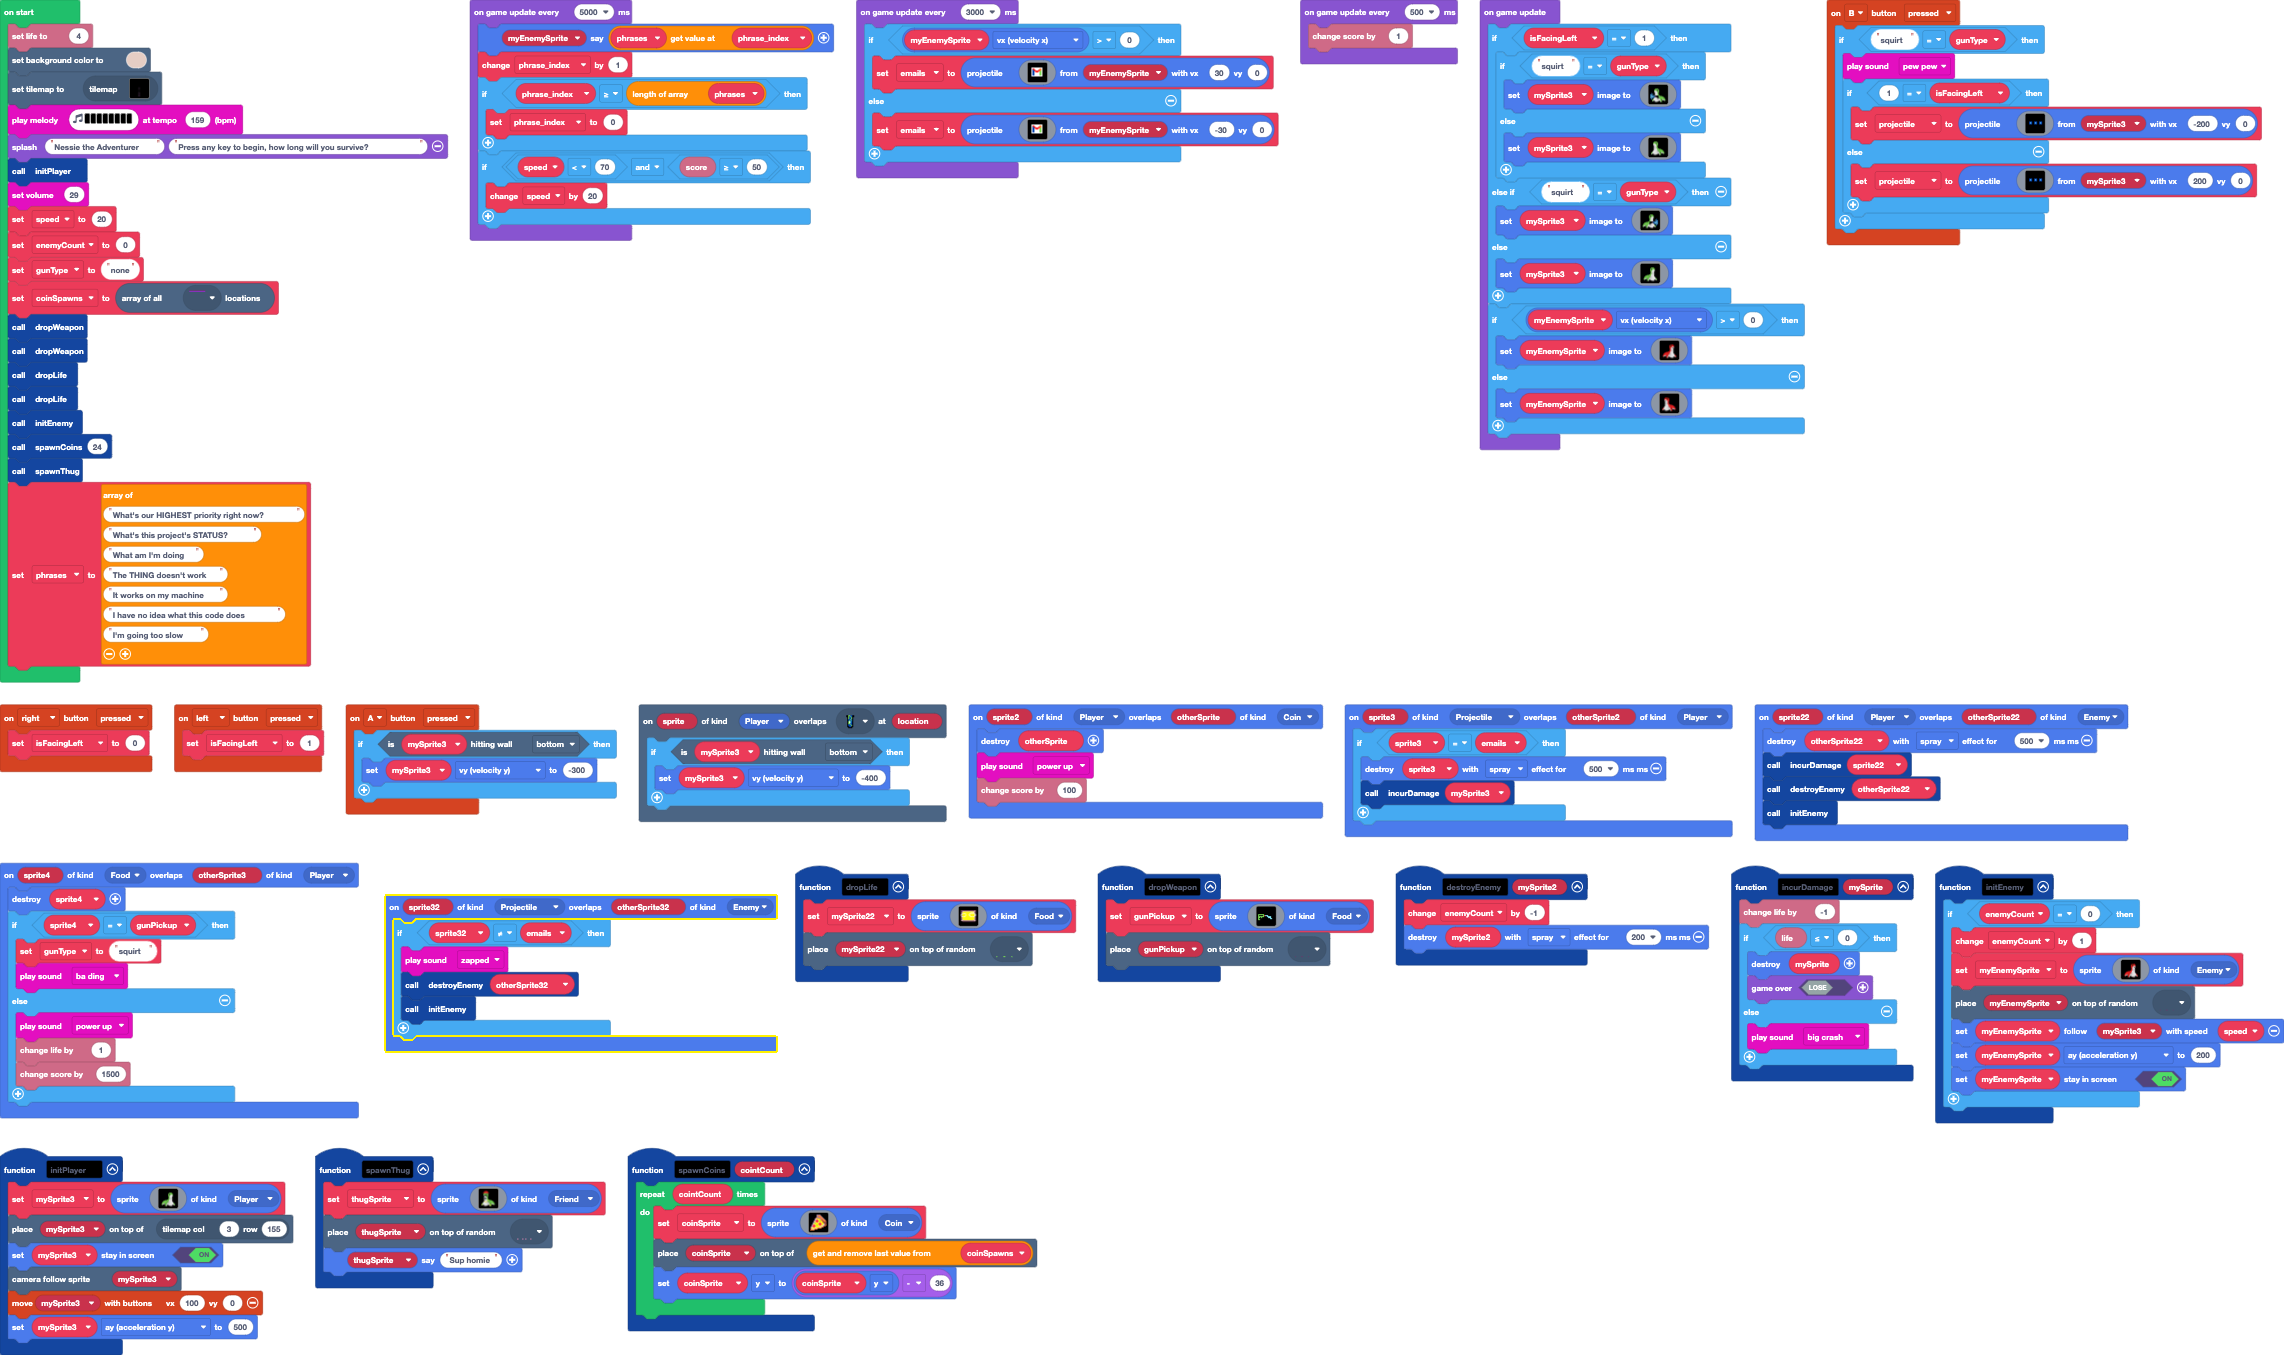
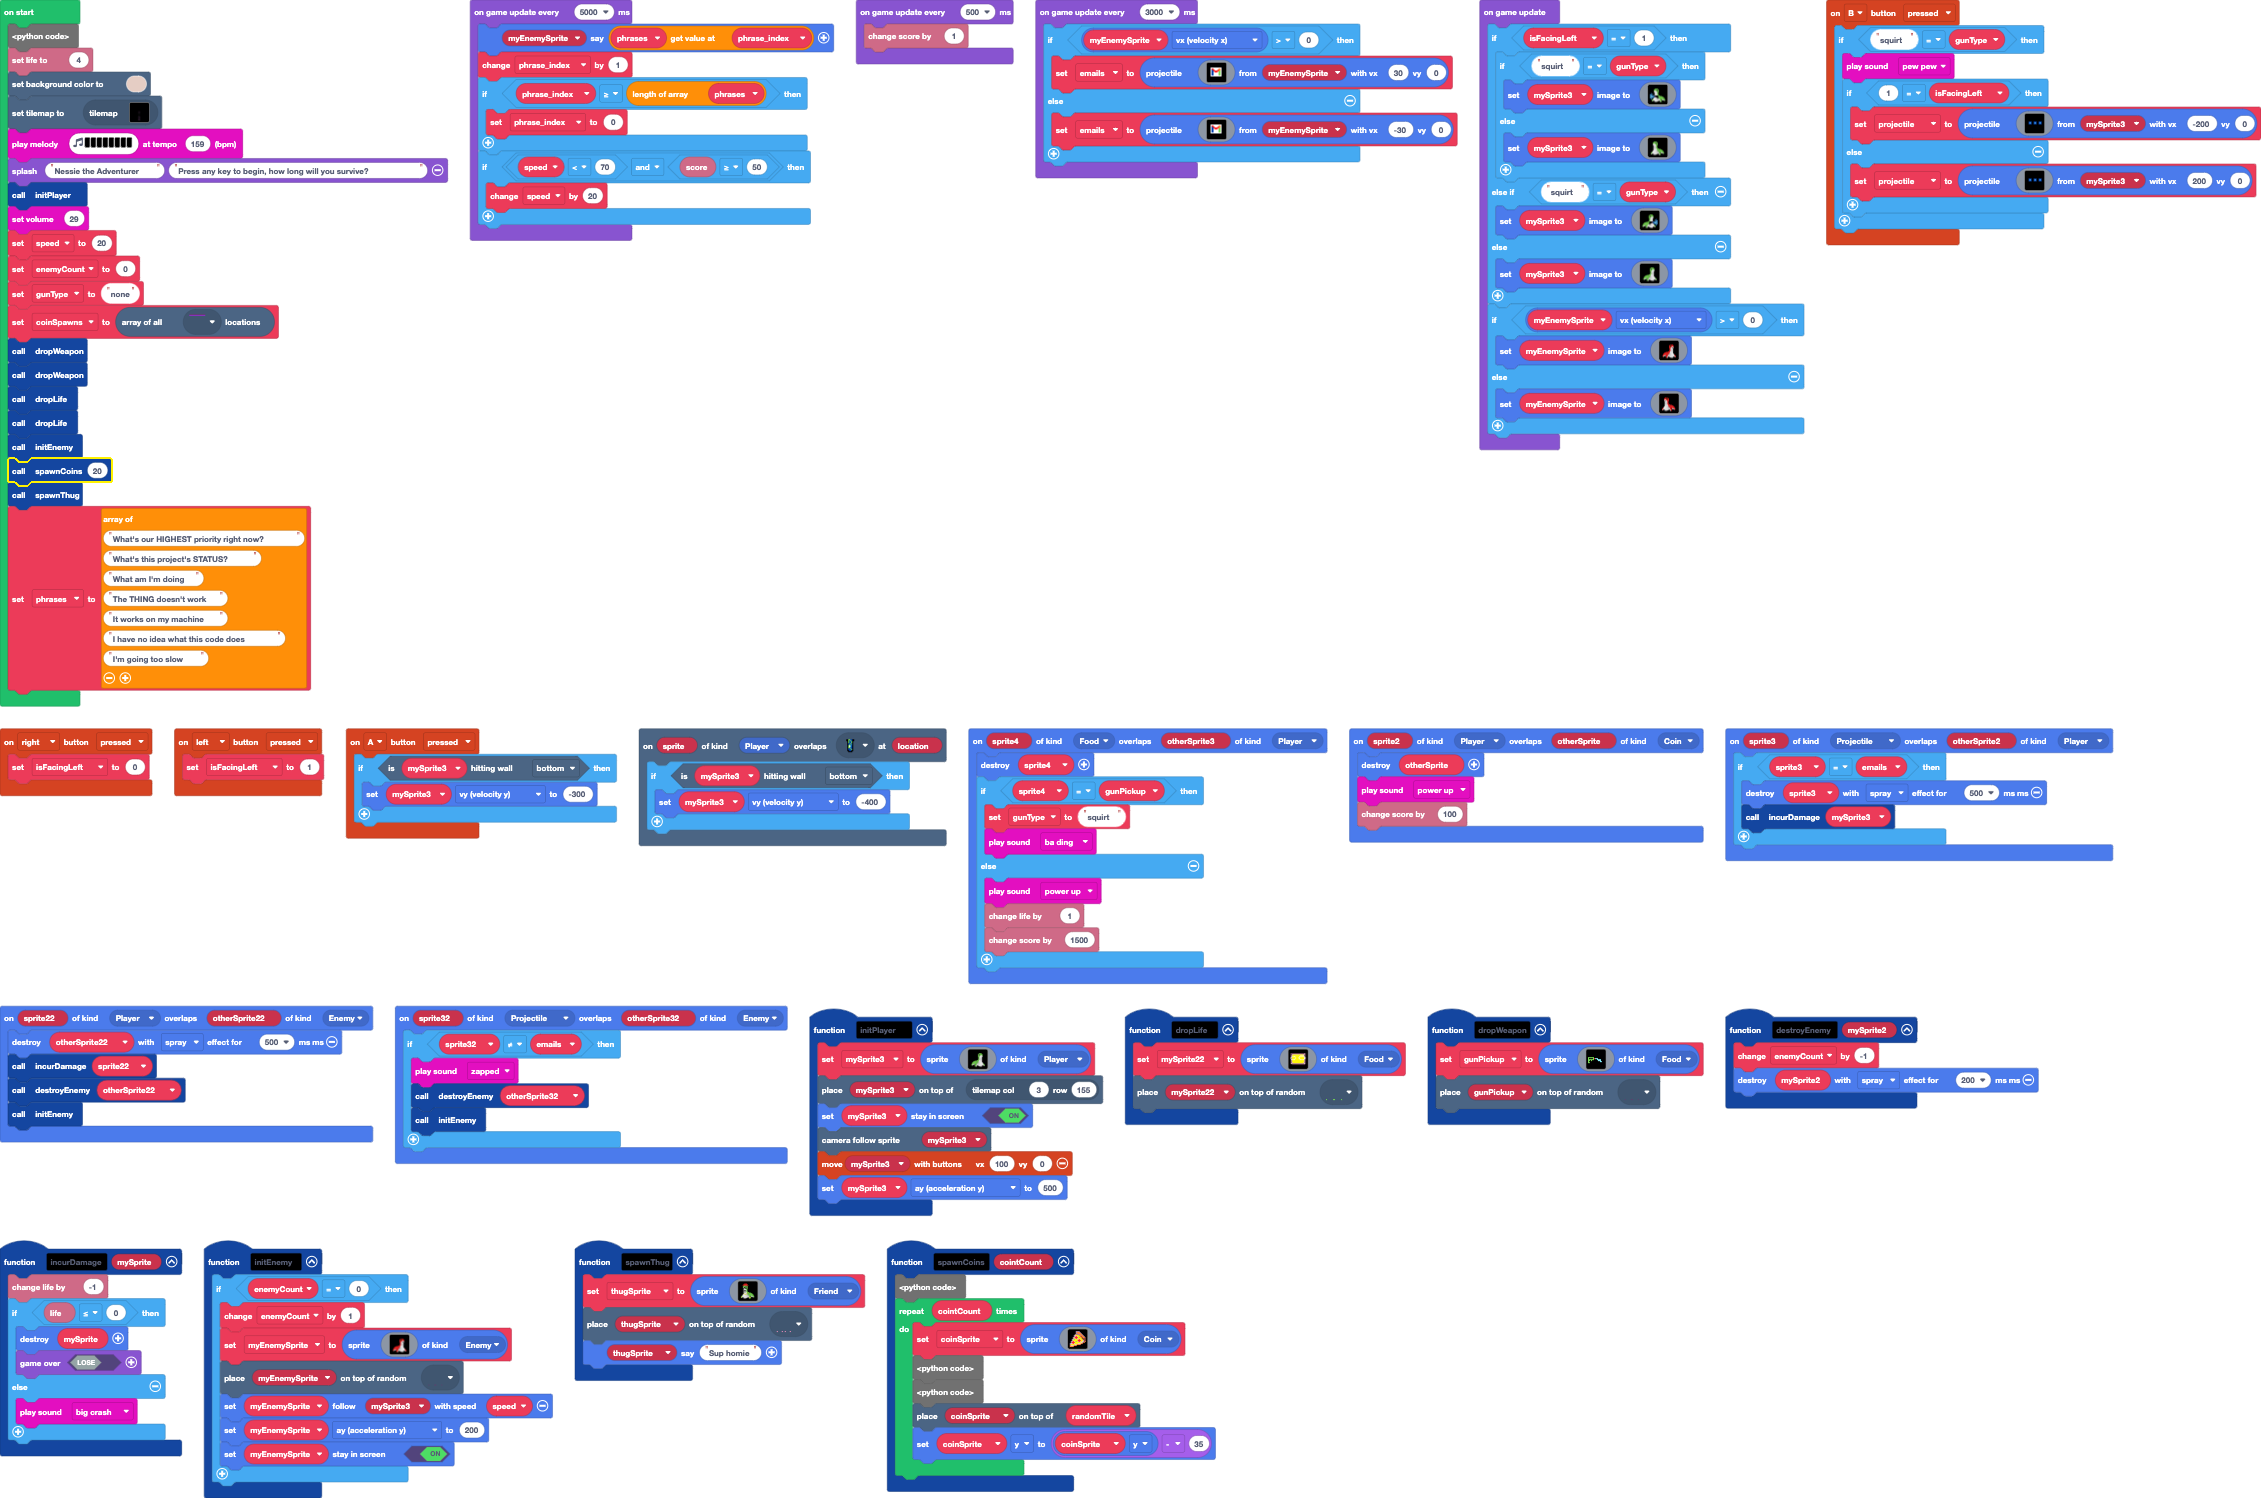
Update main.blocks, main.ts, main.py

diff --git a/main.ts b/main.ts
@@ -51,7 +51,8 @@ sprites.onOverlap(SpriteKind.Projectile, SpriteKind.Enemy, function (sprite32, o
     }
 })
 function spawnCoins (cointCount: number) {
-    for (let index = 0; index < cointCount; index++) {
+    let randomTile: any;
+for (let index = 0; index < cointCount; index++) {
         coinSprite = sprites.create(img`
             . . . . . . b b b b . . . . . . 
             . . . . . . b 4 4 4 b . . . . . 
@@ -70,8 +71,10 @@ function spawnCoins (cointCount: number) {
             4 d d d 4 4 4 . . . . . . . . . 
             4 4 4 4 . . . . . . . . . . . . 
             `, SpriteKind.Coin)
-        tiles.placeOnTile(coinSprite, coinSpawns.pop())
-        coinSprite.y = coinSprite.y - 36
+        randomTile = Math.pickRandom(coinSpawns)
+coinSpawns.removeElement(randomTile)
+tiles.placeOnTile(coinSprite, randomTile)
+        coinSprite.y = coinSprite.y - 35
     }
 }
 controller.left.onEvent(ControllerButtonEvent.Pressed, function () {
@@ -141,10 +144,10 @@ let projectile: Sprite = null
 let isFacingLeft = 0
 let myEnemySprite: Sprite = null
 let mySprite3: Sprite = null
-let coinSpawns: tiles.Location[] = []
 let gunType = ""
 let enemyCount = 0
 let speed = 0
+let coinSpawns : tiles.Location[] = []
 info.setLife(4)
 scene.setBackgroundColor(13)
 tiles.setCurrentTilemap(tilemap`level1`)
@@ -161,7 +164,7 @@ dropWeapon()
 dropLife()
 dropLife()
 initEnemy()
-spawnCoins(24)
+spawnCoins(20)
 spawnThug()
 let phrases = [
 "What's our HIGHEST priority right now?",

diff --git a/main.py b/main.py
@@ -3,6 +3,12 @@ class SpriteKind:
     Friend = SpriteKind.create()
     Coin = SpriteKind.create()
 
+def on_on_overlap(sprite2, otherSprite):
+    otherSprite.destroy()
+    music.power_up.play()
+    info.change_score_by(100)
+sprites.on_overlap(SpriteKind.player, SpriteKind.Coin, on_on_overlap)
+
 def on_overlap_tile(sprite, location):
     if mySprite3.is_hitting_tile(CollisionDirection.BOTTOM):
         mySprite3.vy = -400
@@ -26,11 +32,6 @@ def initEnemy():
         myEnemySprite.ay = 200
         myEnemySprite.set_stay_in_screen(True)
 
-def on_on_overlap(sprite2, otherSprite):
-    otherSprite.destroy()
-    info.change_score_by(100)
-sprites.on_overlap(SpriteKind.player, SpriteKind.Coin, on_on_overlap)
-
 def on_b_pressed():
     global projectile
     if "squirt" == gunType:
@@ -45,33 +46,52 @@ def on_b_pressed():
             """), mySprite3, 200, 0)
 controller.B.on_event(ControllerButtonEvent.PRESSED, on_b_pressed)
 
-def on_a_pressed():
-    if mySprite3.is_hitting_tile(CollisionDirection.BOTTOM):
-        mySprite3.vy = -300
-controller.A.on_event(ControllerButtonEvent.PRESSED, on_a_pressed)
-
 def on_on_overlap2(sprite3, otherSprite2):
     if sprite3 == emails:
         sprite3.destroy(effects.spray, 500)
         incurDamage(mySprite3)
 sprites.on_overlap(SpriteKind.projectile, SpriteKind.player, on_on_overlap2)
 
+def on_a_pressed():
+    if mySprite3.is_hitting_tile(CollisionDirection.BOTTOM):
+        mySprite3.vy = -300
+controller.A.on_event(ControllerButtonEvent.PRESSED, on_a_pressed)
+
+def on_on_overlap3(sprite32, otherSprite32):
+    if sprite32 != emails:
+        music.zapped.play()
+        destroyEnemy(otherSprite32)
+        initEnemy()
+sprites.on_overlap(SpriteKind.projectile, SpriteKind.enemy, on_on_overlap3)
+
 def spawnCoins(cointCount: number):
     global coinSprite
+    
     for index in range(cointCount):
         coinSprite = sprites.create(img("""
-                . . b b b b . . 
-                            . b 5 5 5 5 b . 
-                            b 5 d 3 3 d 5 b 
-                            b 5 3 5 5 1 5 b 
-                            c 5 3 5 5 1 d c 
-                            c d d 1 1 d d c 
-                            . f d d d d f . 
-                            . . f f f f . .
+                . . . . . . b b b b . . . . . . 
+                            . . . . . . b 4 4 4 b . . . . . 
+                            . . . . . . b b 4 4 4 b . . . . 
+                            . . . . . b 4 b b b 4 4 b . . . 
+                            . . . . b d 5 5 5 4 b 4 4 b . . 
+                            . . . . b 3 2 3 5 5 4 e 4 4 b . 
+                            . . . b d 2 2 2 5 7 5 4 e 4 4 e 
+                            . . . b 5 3 2 3 5 5 5 5 e e e e 
+                            . . b d 7 5 5 5 3 2 3 5 5 e e e 
+                            . . b 5 5 5 5 5 2 2 2 5 5 d e e 
+                            . b 3 2 3 5 7 5 3 2 3 5 d d e 4 
+                            . b 2 2 2 5 5 5 5 5 5 d d e 4 . 
+                            b d 3 2 d 5 5 5 d d d 4 4 . . . 
+                            b 5 5 5 5 d d 4 4 4 4 . . . . . 
+                            4 d d d 4 4 4 . . . . . . . . . 
+                            4 4 4 4 . . . . . . . . . . . .
             """),
             SpriteKind.Coin)
-        tiles.place_on_tile(coinSprite, coinSpawns.pop())
-        coinSprite.y = coinSprite.y - 16
+        # I don't like how we have to do this here
+        randomTile = Math.pick_random(coinSpawns)
+        coinSpawns.remove_element(randomTile)
+        tiles.place_on_tile(coinSprite, randomTile)
+        coinSprite.y = coinSprite.y - 36
 
 def on_left_pressed():
     global isFacingLeft
@@ -96,12 +116,10 @@ def incurDamage(mySprite: Sprite):
     else:
         music.big_crash.play()
 
-def on_on_overlap3(sprite22, otherSprite22):
-    otherSprite22.destroy(effects.spray, 500)
-    incurDamage(sprite22)
-    destroyEnemy(otherSprite22)
-    initEnemy()
-sprites.on_overlap(SpriteKind.player, SpriteKind.enemy, on_on_overlap3)
+def on_right_pressed():
+    global isFacingLeft
+    isFacingLeft = 0
+controller.right.on_event(ControllerButtonEvent.PRESSED, on_right_pressed)
 
 def on_on_overlap4(sprite4, otherSprite3):
     global gunType
@@ -114,11 +132,6 @@ def on_on_overlap4(sprite4, otherSprite3):
         info.change_life_by(1)
         info.change_score_by(1500)
 sprites.on_overlap(SpriteKind.food, SpriteKind.player, on_on_overlap4)
-
-def on_right_pressed():
-    global isFacingLeft
-    isFacingLeft = 0
-controller.right.on_event(ControllerButtonEvent.PRESSED, on_right_pressed)
 
 def dropWeapon():
     global gunPickup
@@ -150,12 +163,12 @@ def dropLife():
         extraLife
     """))
 
-def on_on_overlap5(sprite32, otherSprite32):
-    if sprite32 != emails:
-        music.zapped.play()
-        destroyEnemy(otherSprite32)
-        initEnemy()
-sprites.on_overlap(SpriteKind.projectile, SpriteKind.enemy, on_on_overlap5)
+def on_on_overlap5(sprite22, otherSprite22):
+    otherSprite22.destroy(effects.spray, 500)
+    incurDamage(sprite22)
+    destroyEnemy(otherSprite22)
+    initEnemy()
+sprites.on_overlap(SpriteKind.player, SpriteKind.enemy, on_on_overlap5)
 
 phrase_index = 0
 mySprite22: Sprite = None
@@ -185,14 +198,14 @@ speed = 20
 enemyCount = 0
 gunType = "none"
 coinSpawns = tiles.get_tiles_by_type(assets.tile("""
-    binaryMid
+    binaryBottom
 """))
 dropWeapon()
 dropWeapon()
 dropLife()
 dropLife()
 initEnemy()
-spawnCoins(100)
+spawnCoins(24)
 spawnThug()
 phrases = ["What's our HIGHEST priority right now?",
     "What's this project's STATUS?",
